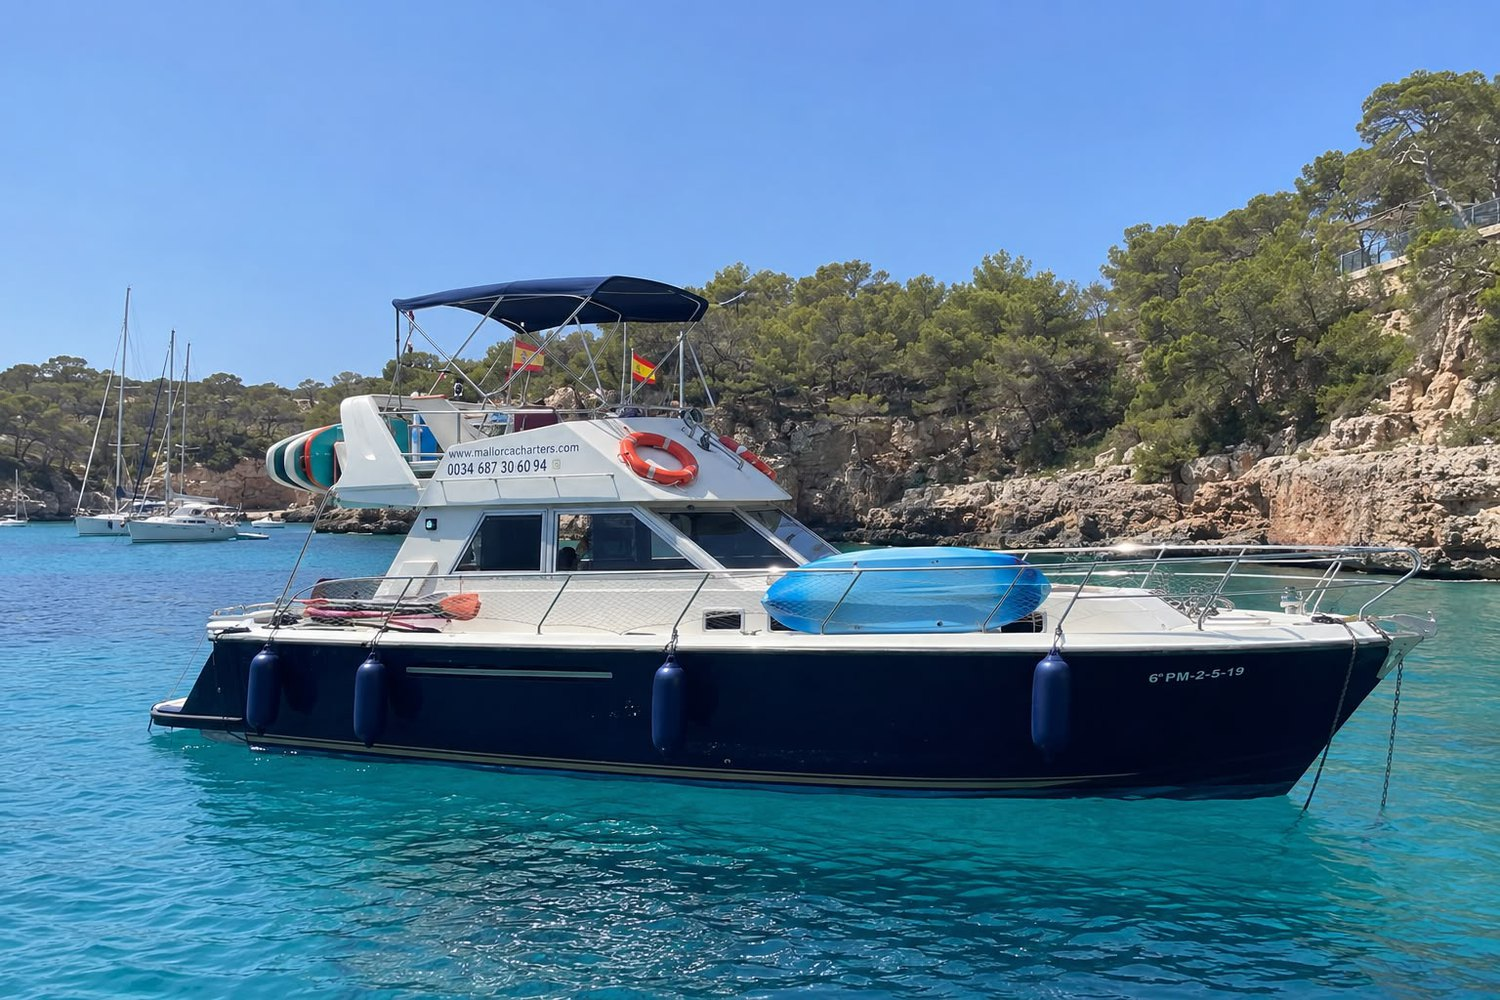
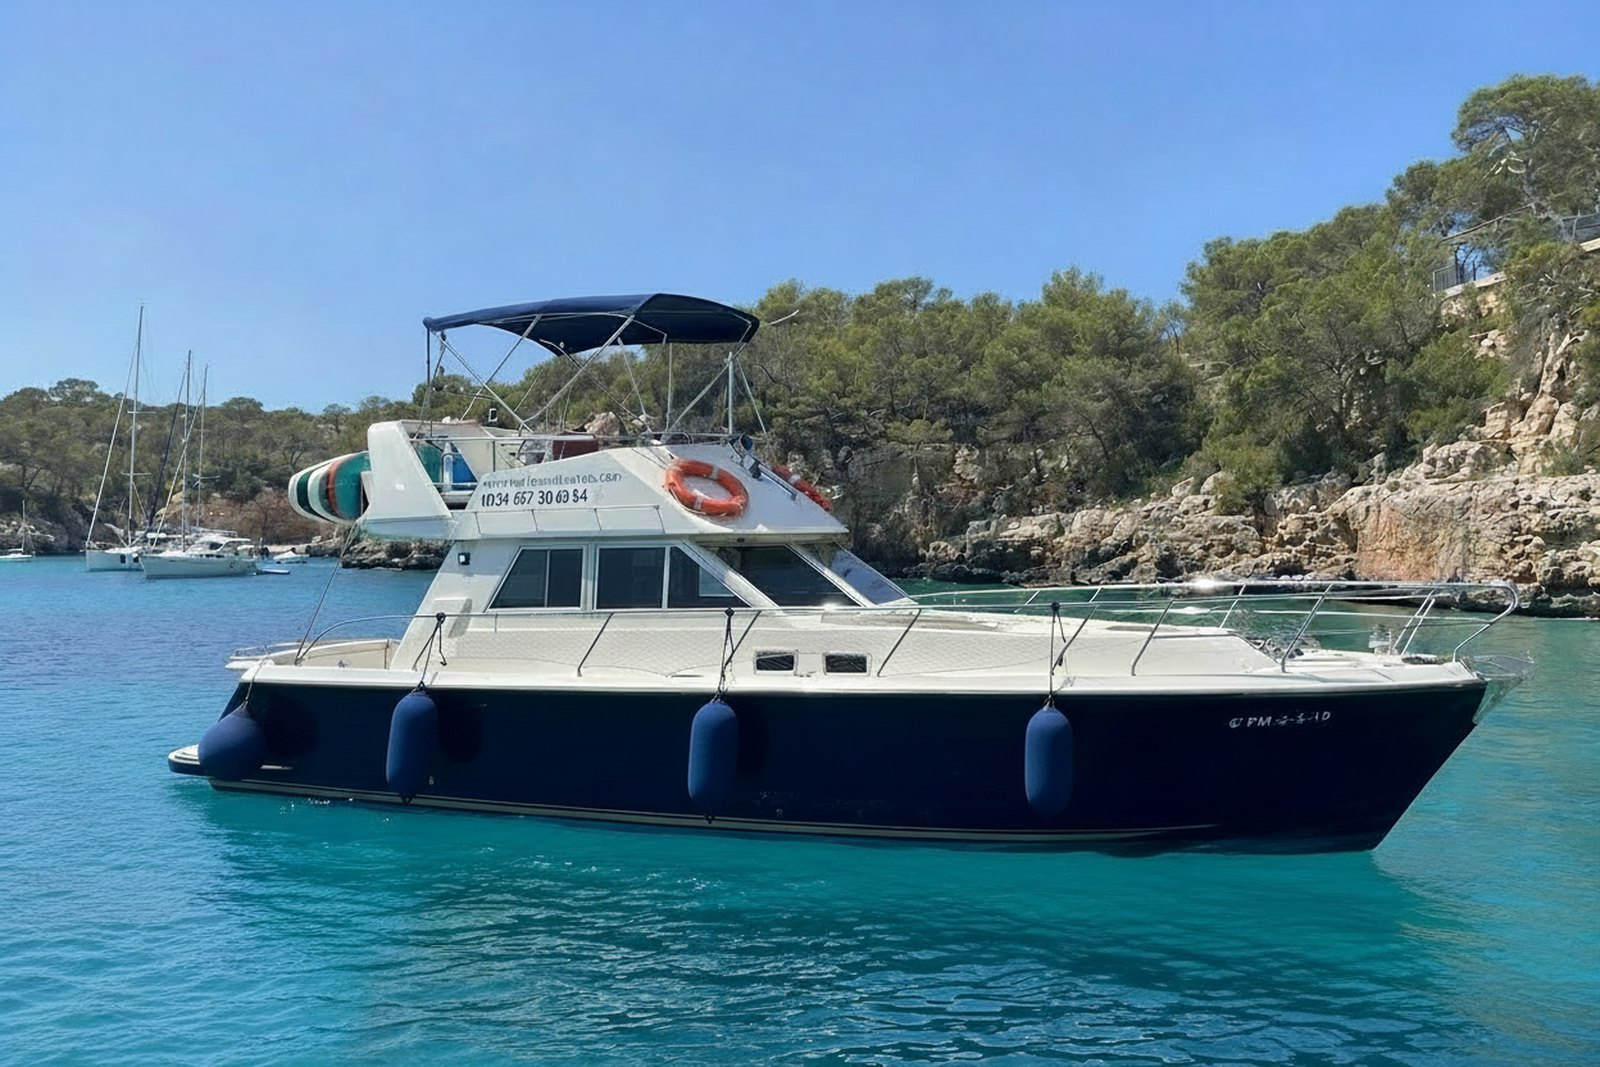
El Barco: full-bleed boat photo (kayak removed) + centered info
- Use the edited kayak-free cove photo, full-width edge to edge (no side margins)
- Restructure section: full-bleed image on top, centered text + 4-col stats below

Changed region(s): [[0.0, 0.062, 1.0, 1.0], [0.5827, 0.775, 0.736, 0.806], [0.4907, 0.775, 0.5213, 0.806]]

diff --git a/index.html b/index.html
@@ -114,6 +114,14 @@
   .split-media .badge { position: absolute; bottom: 22px; left: 22px; background: var(--navy); color: #fff; font-family: var(--display); font-size: 12px; letter-spacing: 2px; text-transform: uppercase; padding: 12px 18px; }
   .split-media .badge b { color: var(--gold); }
 
+  /* EL BARCO — full-bleed */
+  .boat-full { position: relative; width: 100%; height: clamp(420px, 72vh, 780px); overflow: hidden; }
+  .boat-full img { width: 100%; height: 100%; object-fit: cover; object-position: center; display: block; }
+  .boat-badge { position: absolute; left: clamp(20px, 4vw, 48px); bottom: clamp(20px, 4vw, 40px); background: var(--navy); color: #fff; font-family: var(--display); font-size: 12px; letter-spacing: 2px; text-transform: uppercase; padding: 12px 18px; }
+  .boat-badge b { color: var(--gold); }
+  .boat-info { max-width: 860px; margin: 0 auto; padding: clamp(48px, 6vw, 82px) 24px clamp(56px, 7vw, 110px); text-align: center; }
+  .boat-info .stats { grid-template-columns: repeat(4, 1fr); gap: 24px; max-width: 760px; margin: 40px auto 0; }
+
   .stats { display: grid; grid-template-columns: 1fr 1fr; gap: 28px 34px; margin-top: 42px; }
   .stat-value { font-family: var(--display); font-size: 30px; font-weight: 500; color: var(--navy); }
   .stat-label { font-size: 13px; color: var(--muted); letter-spacing: 0.4px; margin-top: 3px; }
@@ -235,6 +243,8 @@
     .exc-extras, .loc, .contact-grid { grid-template-columns: 1fr; }
     .loc-map { height: 320px; }
     .stats { gap: 22px; }
+    .boat-info .stats { grid-template-columns: 1fr 1fr; }
+    .boat-full { height: 52vh; min-height: 340px; }
   }
   @media (max-width: 520px) {
     .onboard-grid { grid-template-columns: 1fr; }
@@ -286,18 +296,16 @@
   </section>
 
   <!-- EL BARCO -->
-  <section class="section" id="sec-barco">
-    <div class="wrap split">
-      <div class="split-media">
-        <img src="assets/img/barco.jpg" alt="Cubierta de teca del Zafiro sobre agua turquesa" loading="lazy">
-        <div class="badge" data-t="home.boatBadge"></div>
-      </div>
-      <div>
-        <div class="eyebrow" data-t="home.aboutTag"></div>
-        <h2 class="h-sec" data-t="home.aboutTitle"></h2>
-        <p class="lead" data-t="home.aboutBody" style="margin-top:22px"></p>
-        <div class="stats" id="home-stats"></div>
-      </div>
+  <section id="sec-barco">
+    <div class="boat-full">
+      <img src="assets/img/barco.jpg" alt="El Zafiro fondeado en una cala de Mallorca" loading="lazy">
+      <div class="boat-badge" data-t="home.boatBadge"></div>
+    </div>
+    <div class="boat-info">
+      <div class="eyebrow" data-t="home.aboutTag"></div>
+      <h2 class="h-sec" data-t="home.aboutTitle"></h2>
+      <p class="lead" data-t="home.aboutBody" style="margin-top:20px"></p>
+      <div class="stats" id="home-stats"></div>
     </div>
   </section>
 
